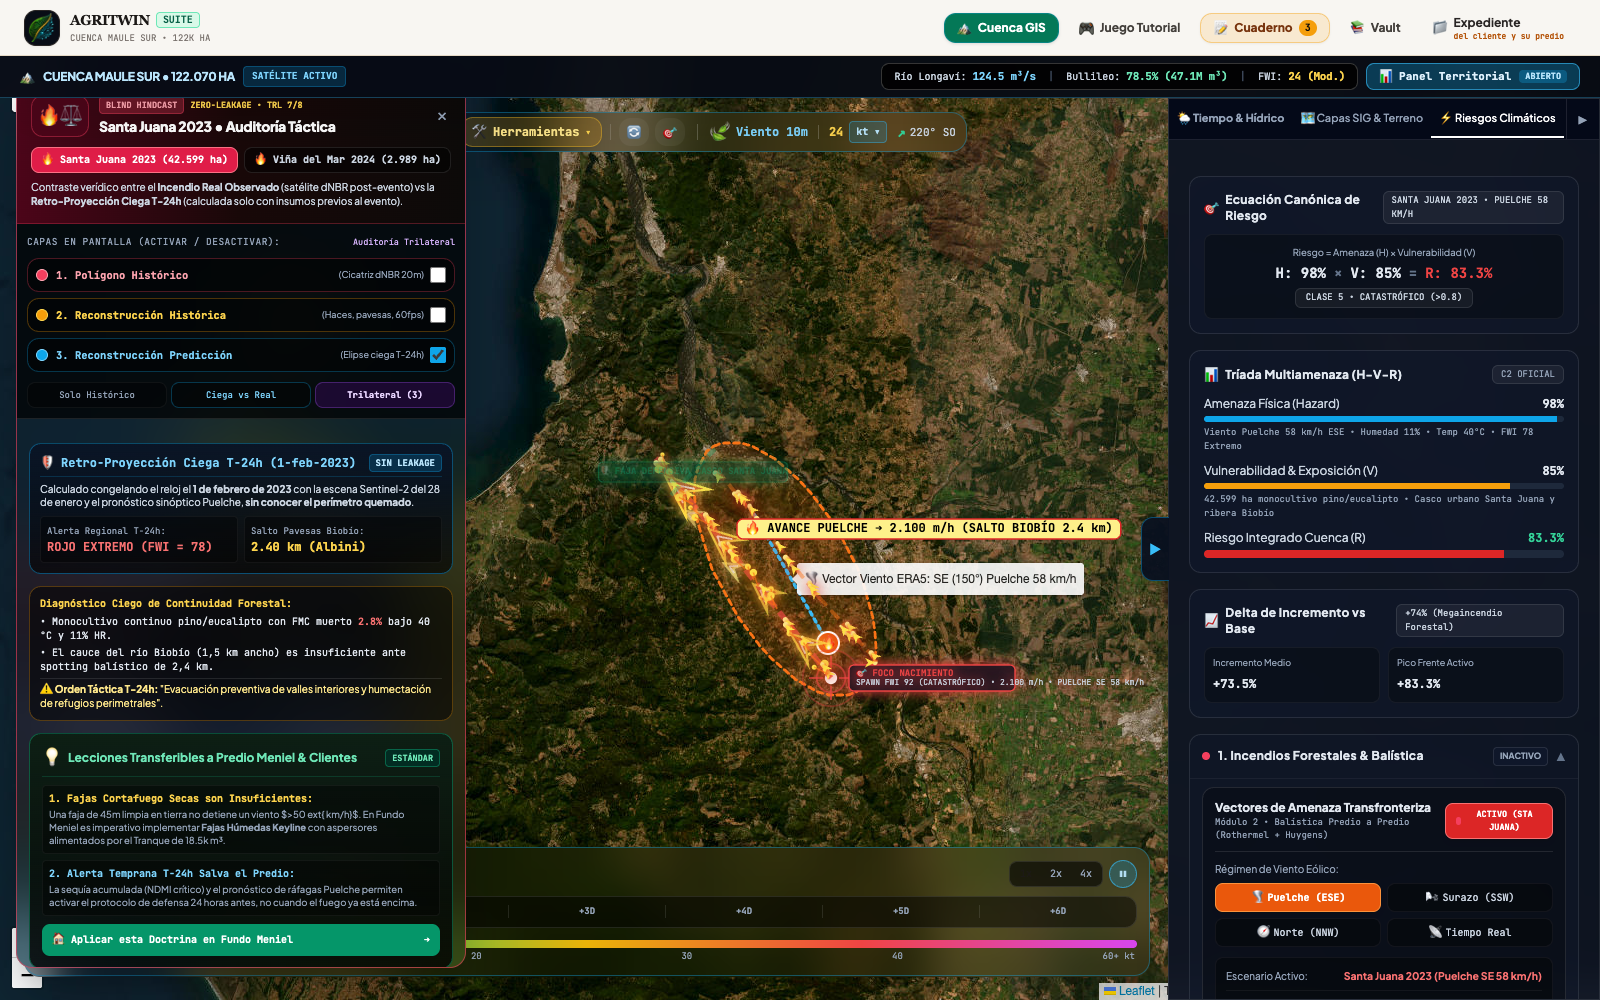
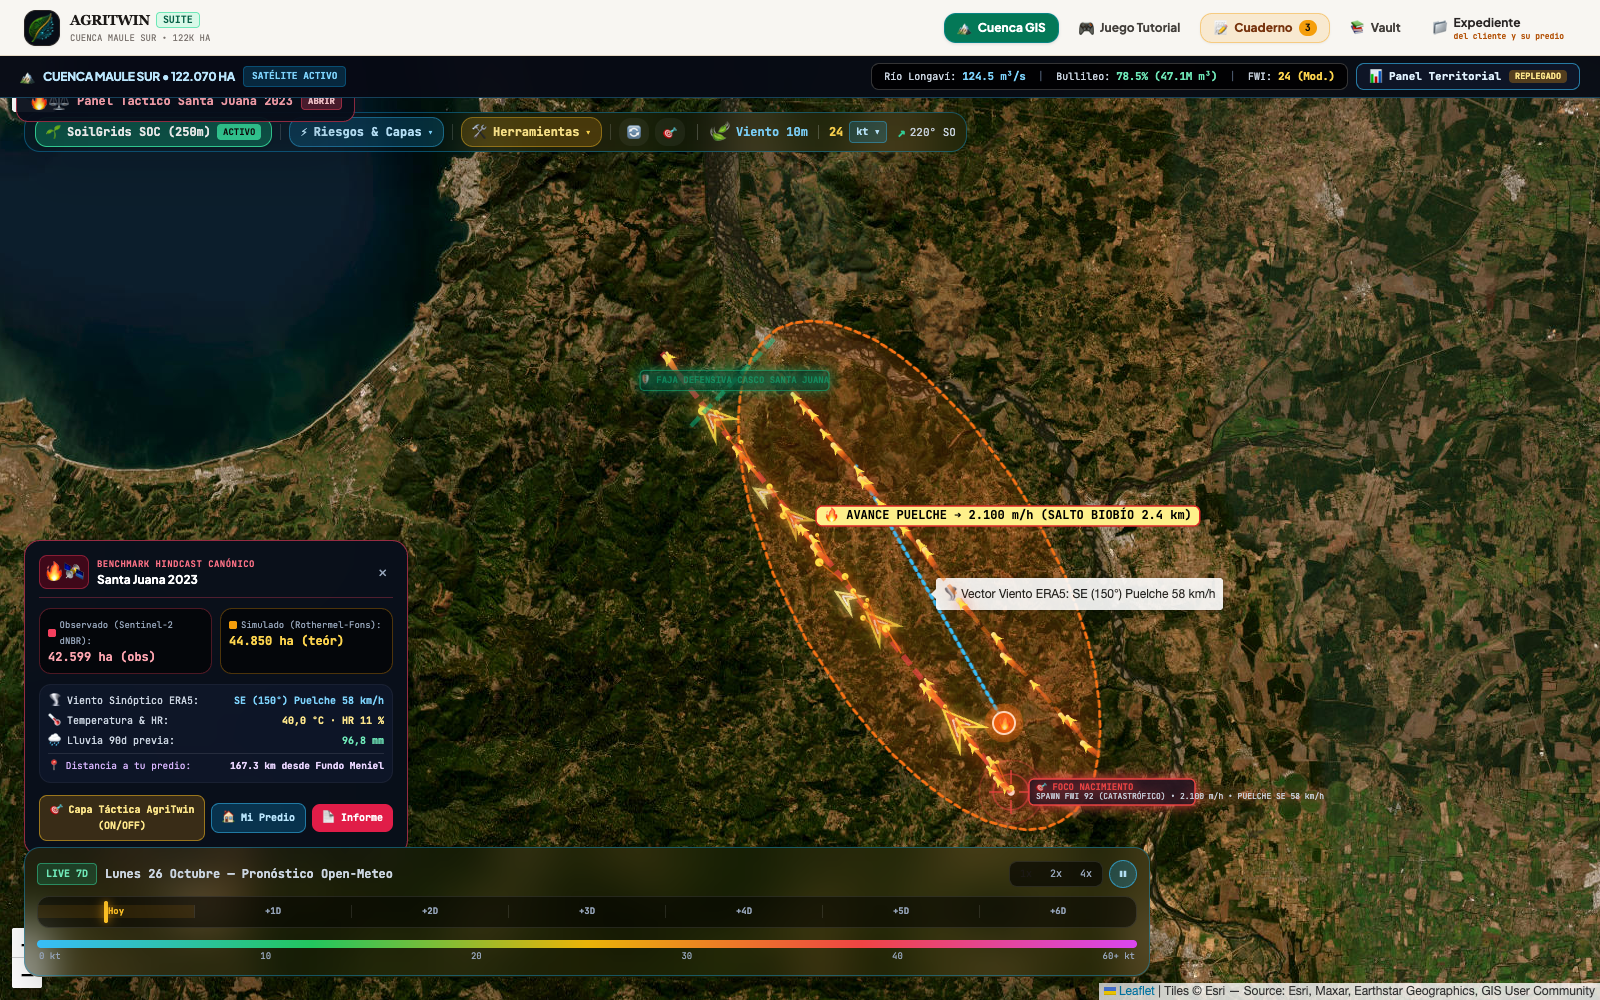
fix(hindcast): minimizacion estricta de laterales y reparacion de fondo satelital en capturas trilaterales

diff --git a/js/hub/geo-layers.js b/js/hub/geo-layers.js
@@ -2748,10 +2748,13 @@
         };
 
         // Controlador Maestro: Carga el Benchmark Hindcast en el mapa y la barra lateral
-        window.loadHindcastBenchmarkInCuenca = function(eventKey, initialPreset) {
+        window.loadHindcastBenchmarkInCuenca = function(eventKey, initialPreset, minimizeSidebars) {
             const isVina = (eventKey === 'vina_2024');
             window.currentHindcastEvent = eventKey;
             const evSlug = isVina ? 'vina' : 'santajuana';
+
+            const urlP = new URLSearchParams(window.location.search);
+            const shouldMinimize = (minimizeSidebars !== undefined) ? !!minimizeSidebars : (urlP.get('minimize') === '1');
 
             if (history && history.replaceState) {
                 history.replaceState(null, null, '#cuenca-incendios?evento=' + evSlug);
@@ -2763,15 +2766,27 @@
 
             // 1. Asegurar vista Cuenca / Cerro completa con todos sus elementos visibles
             if (typeof switchMasterView === 'function') switchMasterView('territory', 'cerro');
+            if (typeof window.setMapBaseLayer === 'function') {
+                window.setMapBaseLayer('esriSat');
+            }
             const cerroSatNav = document.getElementById('cerroSatelliteSubdeckNav');
             if (cerroSatNav) cerroSatNav.style.display = 'flex';
             const sidebar = document.getElementById('territorialSidebar');
             if (sidebar) {
                 sidebar.style.top = '98px';
-                sidebar.style.display = 'flex';
-                sidebar.classList.remove('sidebar-collapsed');
-                sidebar.style.transform = 'translateX(0)';
-                sidebar.style.pointerEvents = 'auto';
+                if (shouldMinimize) {
+                    sidebar.classList.add('sidebar-collapsed');
+                    sidebar.style.display = 'none';
+                    sidebar.style.transform = 'translateX(100%)';
+                    sidebar.style.pointerEvents = 'none';
+                    const expandBtn = document.getElementById('btnExpandTerritorialSidebar');
+                    if (expandBtn) expandBtn.classList.remove('hidden');
+                } else {
+                    sidebar.style.display = 'flex';
+                    sidebar.classList.remove('sidebar-collapsed');
+                    sidebar.style.transform = 'translateX(0)';
+                    sidebar.style.pointerEvents = 'auto';
+                }
             }
             const mapDock = document.getElementById('cuencaMapControlDock');
             if (mapDock) mapDock.style.display = 'flex';
@@ -2782,7 +2797,7 @@
 
             // 2. Abrir pestaña de Riesgos Climáticos en barra lateral derecha ("Visor Táctico")
             if (typeof window.selectSidebarTab === 'function') {
-                window.selectSidebarTab('tab-riesgos');
+                window.selectSidebarTab('tab-riesgos', !shouldMinimize);
             } else {
                 const btnRiesgos = document.querySelector('.tab-btn[data-target="tab-riesgos"]');
                 if (btnRiesgos) btnRiesgos.click();
@@ -3368,7 +3383,31 @@
             if (typeof window.updateBenchmarkDrawerForEvent === 'function') {
                 window.updateBenchmarkDrawerForEvent(eventKey);
             }
-            window.openVinaBenchmarkDrawer();
+            if (shouldMinimize) {
+                window.closeVinaBenchmarkDrawer();
+                const drawer = document.getElementById('vinaBenchmarkDrawer');
+                if (drawer) {
+                    drawer.classList.add('hidden');
+                    drawer.style.display = 'none';
+                }
+                const btnDrawer = document.getElementById('btnToggleVinaDrawer');
+                if (btnDrawer) btnDrawer.classList.remove('hidden');
+
+                if (typeof window.toggleTerritorialSidebar === 'function') {
+                    window.toggleTerritorialSidebar(false);
+                }
+                const sidebar = document.getElementById('territorialSidebar');
+                if (sidebar) {
+                    sidebar.classList.add('sidebar-collapsed');
+                    sidebar.style.display = 'none';
+                    sidebar.style.transform = 'translateX(100%)';
+                    sidebar.style.pointerEvents = 'none';
+                }
+                const expandBtn = document.getElementById('btnExpandTerritorialSidebar');
+                if (expandBtn) expandBtn.classList.remove('hidden');
+            } else {
+                window.openVinaBenchmarkDrawer();
+            }
             if (initialPreset) {
                 window.applyHindcastLayerPreset(initialPreset);
             } else {
@@ -7065,14 +7104,15 @@
             });
         });
 
-        function selectSidebarTab(tabId) {
+        function selectSidebarTab(tabId, forceOpen) {
             if (tabId === 'tab-windy' || tabId === 'tab-water') tabId = 'tab-tiempo';
             if (tabId === 'tab-territory' || tabId === 'tab-centinela') tabId = 'tab-sig';
             if (tabId === 'tab-tactico') tabId = 'tab-riesgos';
             if (tabId === 'tab-tranques' || tabId === 'tab-agua') tabId = 'tab-recursos';
             const btn = document.querySelector(`.tab-btn[data-target="${tabId}"]`);
             if (btn) btn.click();
-            if (typeof window.toggleTerritorialSidebar === 'function') {
+            const shouldOpen = (forceOpen !== undefined) ? !!forceOpen : true;
+            if (shouldOpen && typeof window.toggleTerritorialSidebar === 'function') {
                 window.toggleTerritorialSidebar(true);
             }
         }

diff --git a/index.html b/index.html
@@ -17967,21 +17967,54 @@ document.addEventListener('DOMContentLoaded', () => {
             }
 
             setTimeout(() => {
+                const shouldMinimize = urlParams.get('minimize') !== '0';
                 if (typeof switchMasterView === 'function') {
                     switchMasterView('territory', 'cerro');
                 }
                 if (typeof window.loadHindcastBenchmarkInCuenca === 'function') {
-                    window.loadHindcastBenchmarkInCuenca(hindcastParam);
-                    if (typeof window.openVinaBenchmarkDrawer === 'function') {
-                        window.openVinaBenchmarkDrawer();
-                    }
-                    if (presetParam && typeof window.applyHindcastLayerPreset === 'function') {
-                        setTimeout(() => {
-                            window.applyHindcastLayerPreset(presetParam);
-                        }, 500);
-                    }
+                    window.loadHindcastBenchmarkInCuenca(hindcastParam, presetParam || 'todas', shouldMinimize);
                 }
-            }, 800);
+
+                // Minimizar paneles laterales para maximizar el área cartográfica satelital
+                if (shouldMinimize) {
+                    setTimeout(() => {
+                        // Minimizar lateral derecho (Visor Táctico de Riesgos)
+                        const sidebar = document.getElementById('territorialSidebar');
+                        if (sidebar) {
+                            sidebar.classList.add('sidebar-collapsed');
+                            sidebar.style.display = 'none';
+                            sidebar.style.transform = 'translateX(100%)';
+                            sidebar.style.pointerEvents = 'none';
+                        }
+                        const expandBtn = document.getElementById('btnExpandTerritorialSidebar');
+                        if (expandBtn) expandBtn.classList.remove('hidden');
+
+                        // Minimizar lateral izquierdo (Drawer de Auditoría)
+                        const drawer = document.getElementById('vinaBenchmarkDrawer');
+                        if (drawer) {
+                            drawer.classList.add('hidden');
+                            drawer.style.display = 'none';
+                        }
+                        const btnToggle = document.getElementById('btnToggleVinaDrawer');
+                        if (btnToggle) {
+                            btnToggle.classList.remove('hidden');
+                        }
+
+                        // Recalibrar mapa Leaflet a pantalla completa
+                        if (window.map) {
+                            window.map.invalidateSize(true);
+                            const fallbackBounds = {
+                                vina_2024: L.latLngBounds([[-33.16, -71.56], [-33.01, -71.41]]),
+                                santa_juana_2023: L.latLngBounds([[-37.45, -73.15], [-37.10, -72.70]])
+                            };
+                            const b = (window.hindcastBoundsByEvent && window.hindcastBoundsByEvent[hindcastParam]) || fallbackBounds[hindcastParam];
+                            if (b && b.isValid()) {
+                                window.map.fitBounds(b, { padding: [40, 40] });
+                            }
+                        }
+                    }, 800);
+                }
+            }, 600);
         }
     } catch(e) {
         console.warn('Auto-init hindcast param error:', e);

diff --git a/scripts/capture_hindcast_screenshots.py b/scripts/capture_hindcast_screenshots.py
@@ -81,7 +81,7 @@ def main():
     print("═══════════════════════════════════════════════════════════════════")
 
     for idx, t in enumerate(TASKS, 1):
-        target_url = f"{BASE_URL}/?hindcast={t['event']}&preset={t['preset']}"
+        target_url = f"{BASE_URL}/?hindcast={t['event']}&preset={t['preset']}&minimize=1"
         out_path = os.path.join(OUTPUT_DIR, t['outfile'])
         print(f"[{idx}/{len(TASKS)}] Capturando: {t['desc']}...")
         print(f"     URL: {target_url}")
@@ -92,13 +92,13 @@ def main():
             "--headless=new",
             f"--screenshot={out_path}",
             "--window-size=1600,1000",
-            "--virtual-time-budget=7500",
+            "--virtual-time-budget=12000",
             "--hide-scrollbars",
             target_url
         ]
 
         try:
-            res = subprocess.run(cmd, stdout=subprocess.PIPE, stderr=subprocess.PIPE, timeout=35)
+            res = subprocess.run(cmd, stdout=subprocess.PIPE, stderr=subprocess.PIPE, timeout=45)
             if os.path.exists(out_path) and os.path.getsize(out_path) > 10000:
                 sz_kb = os.path.getsize(out_path) / 1024
                 print(f"     ✔ OK ({sz_kb:.1f} KB)")
